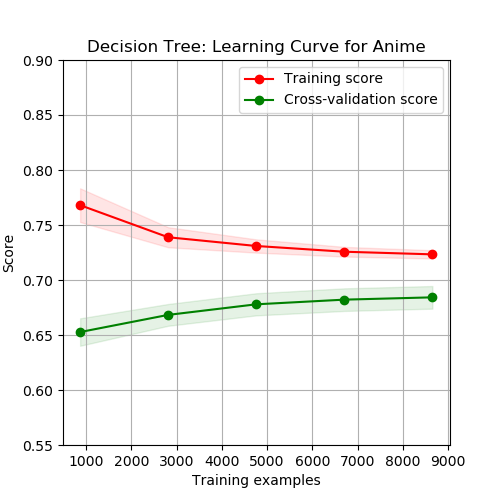
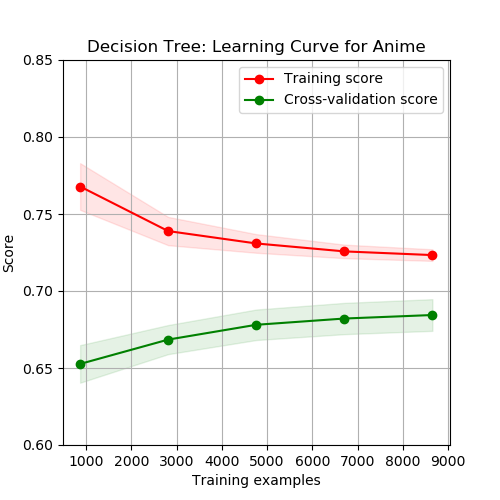
Touch up DT and complete Boosting

diff --git a/boosting.py b/boosting.py
@@ -1,14 +1,15 @@
+
 import os
 import numpy as np
 import pandas as pd
 import matplotlib.pyplot as plt
-from sklearn.tree import DecisionTreeClassifier
+from sklearn.ensemble import GradientBoostingClassifier
 from sklearn.model_selection import ShuffleSplit
 from sklearn.model_selection import GridSearchCV
 from plot_learning_curve import plot_learning_curve
 from plot_data import plot_data
 
- # This file moves the files along their required processes
+# This file moves the files along their required processes
 folder = "data_final"
 image_folder = "images"
 data_sets = ["anime.csv", "heart.csv"]
@@ -20,27 +21,27 @@ train_anime_df = pd.read_csv(train_anime_loc)
 train_anime_X = train_anime_df.iloc[:,:-1]
 train_anime_Y = train_anime_df.iloc[:,-1]
 
-title = "Decision Tree: Learning Curve for Anime"
+title = "Boosting: Learning Curve for Anime"
 cv = ShuffleSplit(n_splits=100, test_size=0.2, random_state=0)
-estimator = DecisionTreeClassifier(criterion='gini', max_depth=12, min_samples_leaf=2)
-image_loc = os.path.join(image_folder, 'DT_learning_curve_anime.png')
-plot_learning_curve(estimator, title, train_anime_X, train_anime_Y, ylim=(0.6, 0.85), cv=cv, n_jobs=4, image_loc=image_loc)
+estimator = GradientBoostingClassifier(max_depth=5, min_samples_leaf=3, random_state=0, n_estimators=150)
+image_loc = os.path.join(image_folder, 'BoostDT_learning_curve_anime.png')
+plot_learning_curve(estimator, title, train_anime_X, train_anime_Y, ylim=(0.6, 0.9), cv=cv, n_jobs=4, image_loc=image_loc)
 
 # Use Gridsearch to analyse the max_depth of DT
 model_X = []
 model_Y = []
 model_STD = []
-for i in range(1, 25):
-   tree_para = {'criterion':['gini','entropy'],'max_depth':[i], 'min_samples_leaf':[1,2,3,4], 'random_state':[0]}
-   dectree = GridSearchCV(DecisionTreeClassifier(), tree_para, cv=5)
+for i in range(1, 10):
+   tree_para = {'max_depth':[i], 'min_samples_leaf':[3], 'n_estimators': [150], 'random_state':[0]}
+   dectree = GridSearchCV(GradientBoostingClassifier(), tree_para, cv=5)
    dectree.fit(train_anime_X, train_anime_Y)
    model_X.append(i)
    model_Y.append(dectree.best_score_)
    model_STD.append(np.average(dectree.cv_results_['std_test_score']))
 
 best_idx = np.argmax(model_Y) + 1
-image_loc = os.path.join(image_folder, 'DT_model_complexity_anime.png')
-plot_data(X=model_X, Y=model_Y, STD=model_STD, image_loc=image_loc, title='Decision Tree: Max Depth Score for Anime', x_label='Max Depth', x_best=best_idx)
+image_loc = os.path.join(image_folder, 'BoostDT_model_complexity_anime.png')
+plot_data(X=model_X, Y=model_Y, STD=model_STD, image_loc=image_loc, title='Boosting: Max Depth Score for Anime', x_label='Max Depth', x_best=best_idx)
 
 # Process Heart
 print("Processing Heart...")
@@ -49,24 +50,24 @@ train_heart_df = pd.read_csv(train_heart_loc)
 train_heart_X = train_heart_df.iloc[:,:-1]
 train_heart_Y = train_heart_df.iloc[:,-1]
 
-title = "Decision Tree: Learning Curve for Heart"
+title = "Boosting: Learning Curve for Heart"
 cv = ShuffleSplit(n_splits=100, test_size=0.1, random_state=0)
-estimator = DecisionTreeClassifier(criterion='entropy', max_depth=3, min_samples_leaf=4)
-image_loc = os.path.join(image_folder, 'DT_learning_curve_heart.png')
-plot_learning_curve(estimator, title, train_heart_X, train_heart_Y, ylim=(0.45, 1.01), cv=cv, n_jobs=4, image_loc=image_loc)
+estimator = GradientBoostingClassifier(max_depth=1, min_samples_leaf=1, n_estimators=100)
+image_loc = os.path.join(image_folder, 'BoostDT_learning_curve_heart.png')
+plot_learning_curve(estimator, title, train_heart_X, train_heart_Y, ylim=(0.55, 1.01), cv=cv, n_jobs=4, image_loc=image_loc)
 
 # Use Gridsearch to analyse the max_depth of DT
 model_X = []
 model_Y = []
 model_STD = []
-for i in range(1, 15):
-   tree_para = {'criterion':['gini','entropy'],'max_depth':[i], 'min_samples_leaf':[1,2,3,4], 'random_state':[0]}
-   dectree = GridSearchCV(DecisionTreeClassifier(), tree_para, cv=5)
+for i in range(1, 10):
+   tree_para = {'max_depth':[i], 'min_samples_leaf':[1], 'n_estimators': [100], 'random_state':[0]}
+   dectree = GridSearchCV(GradientBoostingClassifier(), tree_para, cv=5)
    dectree.fit(train_heart_X, train_heart_Y)
    model_X.append(i)
    model_Y.append(dectree.best_score_)
    model_STD.append(np.average(dectree.cv_results_['std_test_score']))
 
 best_idx = np.argmax(model_Y) + 1
-image_loc = os.path.join(image_folder, 'DT_model_complexity_heart.png')
+image_loc = os.path.join(image_folder, 'BoostDT_model_complexity_heart.png')
 plot_data(X=model_X, Y=model_Y, STD=model_STD, image_loc=image_loc, title='Decision Tree: Max Depth Score for Heart', x_label='Max Depth', x_best=best_idx)

diff --git a/boostingDT_GS.py b/boostingDT_GS.py
@@ -1,0 +1,61 @@
+
+from sklearn.ensemble import GradientBoostingClassifier
+from sklearn.model_selection import GridSearchCV
+import pandas as pd
+import os
+import numpy as np
+
+print("Begining DecissionTree process.")
+
+# This file moves the files along their required processes
+folder = "data_final"
+data_sets = ["anime.csv", "heart.csv"]
+
+## Process Anime
+#print("Processing Anime...")
+#train_anime_loc = os.path.join(folder, "train_"+data_sets[0])
+#train_anime_df = pd.read_csv(train_anime_loc)
+#test_anime_loc = os.path.join(folder, "test_"+data_sets[0])
+#test_anime_df = pd.read_csv(test_anime_loc)
+#
+## Features are everything but the last column
+#train_anime_X = train_anime_df.iloc[:,:-1]
+#test_anime_X = test_anime_df.iloc[:,:-1]
+#
+##Label is the last column
+#train_anime_Y = train_anime_df.iloc[:,-1]
+#test_anime_Y = test_anime_df.iloc[:,-1]
+#
+## Train Decission Tree
+#tree_para = {'max_depth':(np.arange(10)+1).tolist(), 'min_samples_leaf':[1,2,3,4], 'n_estimators':[50,100,150,200], 'random_state':[0]}
+#dectree_anime = GridSearchCV(GradientBoostingClassifier(), tree_para, cv=5)
+#dectree_anime.fit(train_anime_X, train_anime_Y)
+#
+#score = dectree_anime.score(test_anime_X, test_anime_Y)
+#print("Original GridSearch Anime Test Score: " + str(score))
+#print("Original Gridsearch Anime Params: " + str(dectree_anime.best_params_))
+
+
+# Process Heart
+print("Processing Heart...")
+train_heart_loc = os.path.join(folder, "train_"+data_sets[1])
+train_heart_df = pd.read_csv(train_heart_loc)
+test_heart_loc = os.path.join(folder, "test_"+data_sets[1])
+test_heart_df = pd.read_csv(test_heart_loc)
+
+# Features are everything but the last column
+train_heart_X = train_heart_df.iloc[:,:-1]
+test_anime_X = test_heart_df.iloc[:,:-1]
+
+#Label is the last column
+train_heart_Y = train_heart_df.iloc[:,-1]
+test_heart_Y = test_heart_df.iloc[:,-1]
+
+# Train Decission Tree
+tree_para = {'max_depth':(np.arange(10)+1).tolist(), 'min_samples_leaf':[1,2,3,4], 'n_estimators':[50,100,150,200], 'random_state':[0]}
+dectree_heart = GridSearchCV(GradientBoostingClassifier(), tree_para, cv=5)
+dectree_heart.fit(train_heart_X, train_heart_Y)
+
+score = dectree_heart.score(test_anime_X, test_heart_Y)
+print("Original GridSearch Heart Test Score: " + str(score))
+print("Original Gridsearch Heart Params: " + str(dectree_heart.best_params_))
